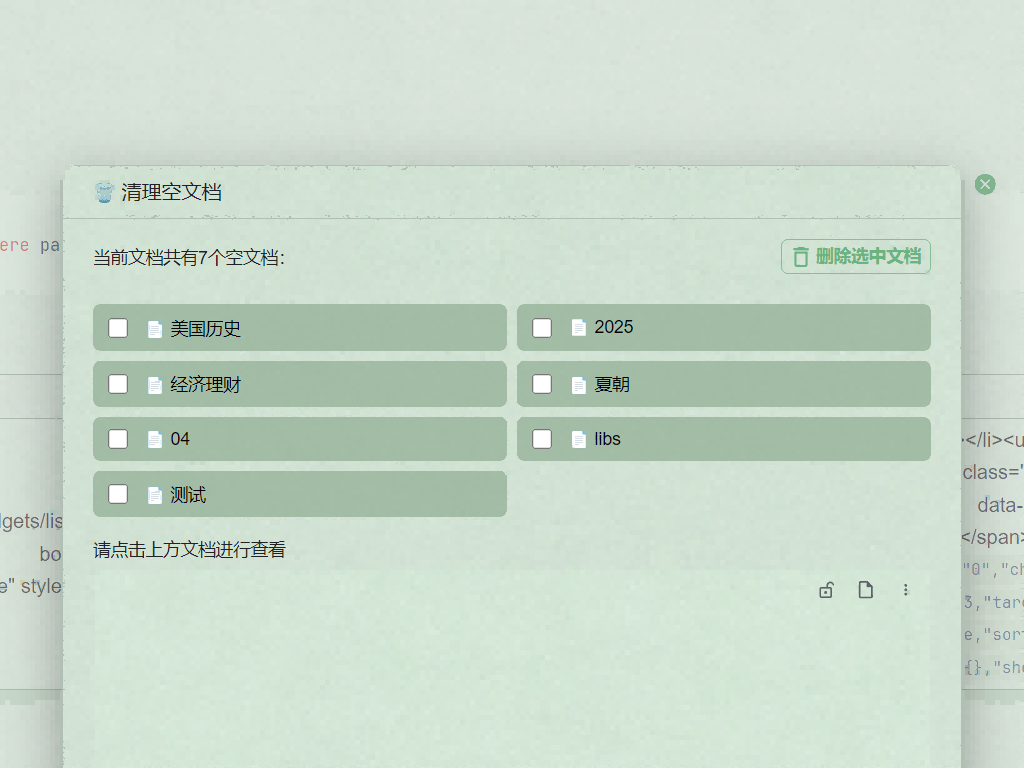
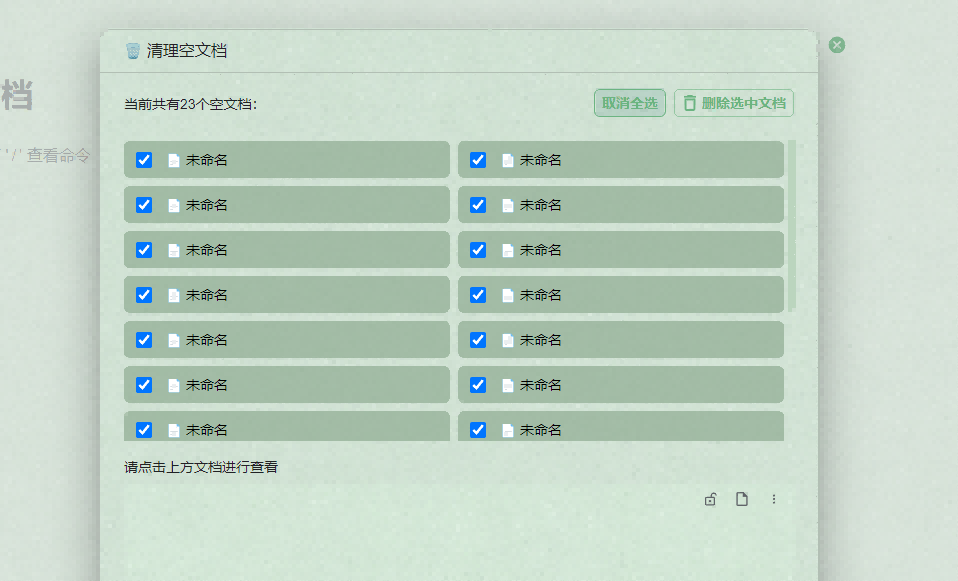
fix: 修复bug

diff --git a/src/page.svelte b/src/page.svelte
@@ -6,18 +6,18 @@
     interface DocItem {
         id: string;
         name: string;
-        notebook: string; // 新增笔记本字段
-        path: string; // 新增路径字段
+        notebook: string;
+        path: string;
     }
 
     export let app;
-    export let i18n: I18N; // 使用官方 I18N 类型
+    export let i18n: I18N;
 
     let divProtyle: HTMLDivElement;
     let protyle: any;
     let blockID: string = "";
     let emptydocs: DocItem[] = [];
-    $: console.log(emptydocs); // 触发响应式更新
+    $: console.log(emptydocs);
     let selectedDoc: DocItem | null = null;
     let selectedIds: string[] = [];
     let showConfirmDialog = false;
@@ -52,6 +52,13 @@
                 FROM blocks AS other_child 
                 WHERE other_child.parent_id = parent.id 
                 AND other_child.type != 'p'
+            )
+            AND NOT EXISTS (
+                SELECT 1 
+                FROM blocks AS child_doc 
+                WHERE child_doc.path LIKE 
+                    SUBSTR(parent.path, 1, LENGTH(parent.path) - 3) || '/%'
+                AND child_doc.type = 'd'
             )
             GROUP BY parent.id
             HAVING (
@@ -133,23 +140,30 @@
 
 <div class="b3-dialog__content">
     <div class="flex-container">
-        <span
-            >{i18n.EmptyDocNumber1}{emptydocs.length}{i18n.EmptyDocNumber2}</span
-        >
-        <button
-            class="b3-button b3-button--outline"
-            on:click={() => {
-                if (selectedIds.length === 0) return;
-                deleteCount = selectedIds.length;
-                showConfirmDialog = true;
-            }}
-            style="margin-left: auto;"
-        >
-            <svg class="b3-button__icon"
-                ><use xlink:href="#iconTrashcan"></use></svg
-            >
-            {i18n.deleteButton}
-        </button>
+        <span>{i18n.EmptyDocNumber1}{emptydocs.length}{i18n.EmptyDocNumber2}</span>
+        <div style="margin-left: auto; display: flex; gap: 8px;">
+            {#if emptydocs.length > 0}
+                <button
+                    class="b3-button b3-button--outline"
+                    on:click={() => {
+                        selectedIds = selectedIds.length === emptydocs.length 
+                            ? [] 
+                            : emptydocs.map(d => d.id);
+                    }}>
+                    {selectedIds.length === emptydocs.length ? i18n.cancelSelectAll : i18n.selectAll}
+                </button>
+            {/if}
+            <button
+                class="b3-button b3-button--outline"
+                on:click={() => {
+                    if (selectedIds.length === 0) return;
+                    deleteCount = selectedIds.length;
+                    showConfirmDialog = true;
+                }}>
+                <svg class="b3-button__icon"><use xlink:href="#iconTrashcan"></use></svg>
+                {i18n.deleteButton}
+            </button>
+        </div>
     </div>
     <div class="fn__hr" />
     <div class="doc-list">
@@ -173,7 +187,7 @@
                 </button>
             </div>
         {:else}
-            <div class="empty-tip">{this.noEmptyDoc}</div>
+            <div class="empty-tip">{i18n.sussess}</div>
         {/each}
     </div>
     <div class="fn__hr" />

diff --git a/README.md b/README.md
@@ -5,6 +5,10 @@
 - Click the document name in the list to preview the document content. (Confirm whether it is empty to avoid accidentally deletion)
 - Select the document you want to delete (multiple selection support), the plug-in will automatically delete the selected document.
 # Update instructions
+- 2025-04-17：V1.0.4
+    - Fixed the issue where no filtering was done when empty documents had subdocuments.
+    - Added a select all button to facilitate users to select all documents.
+    - Optimized prompts.
 - 2025-04-17：V1.0.3 Update the documentation.
 - 2025-04-17: V1.0.2 Fixed the issue of identifying widget pallet blocks as empty.
 - 2025-04-16: V1.0.1 fixed some issues.

diff --git a/README_zh_CN.md b/README_zh_CN.md
@@ -10,6 +10,11 @@
 
 
 # 更新说明
+- 2025-04-17：V1.0.4
+    - 修复当空文档具有子文档时，不会过滤掉的问题。
+    - 增加了全选按钮，方便用户选择所有的文档。
+    - 优化了提示语。
+
 - 2025-04-17：V1.0.3 更新说明文档。
 
 - 2025-04-17：V1.0.2 修复将 widget 挂件块识别为空的问题。
